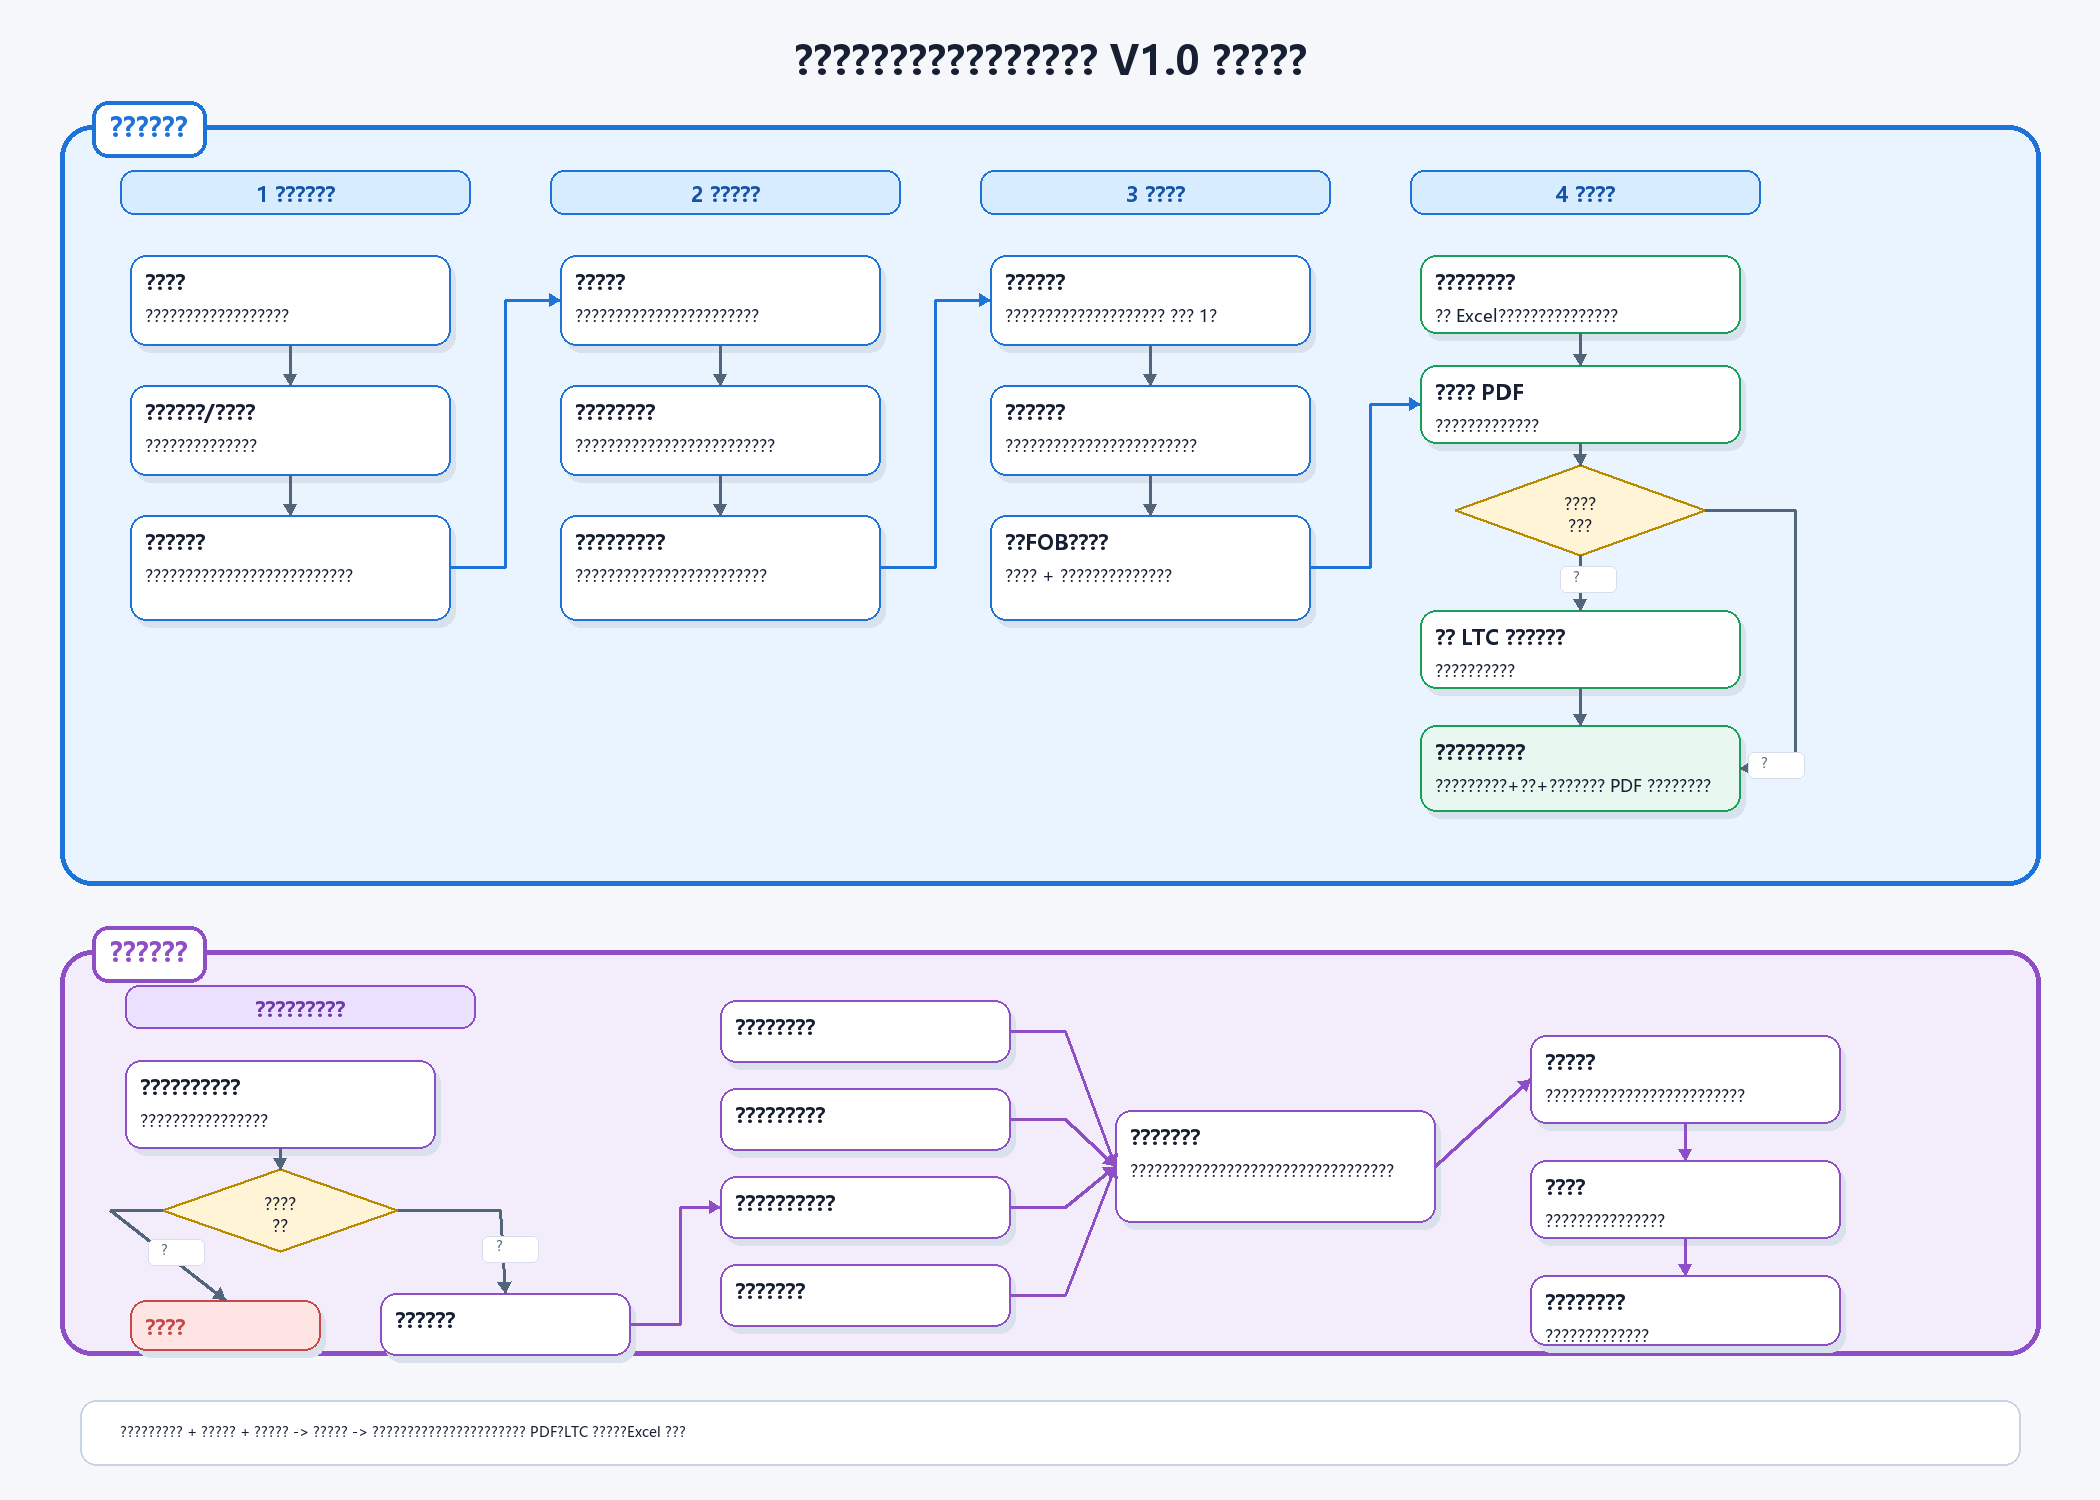
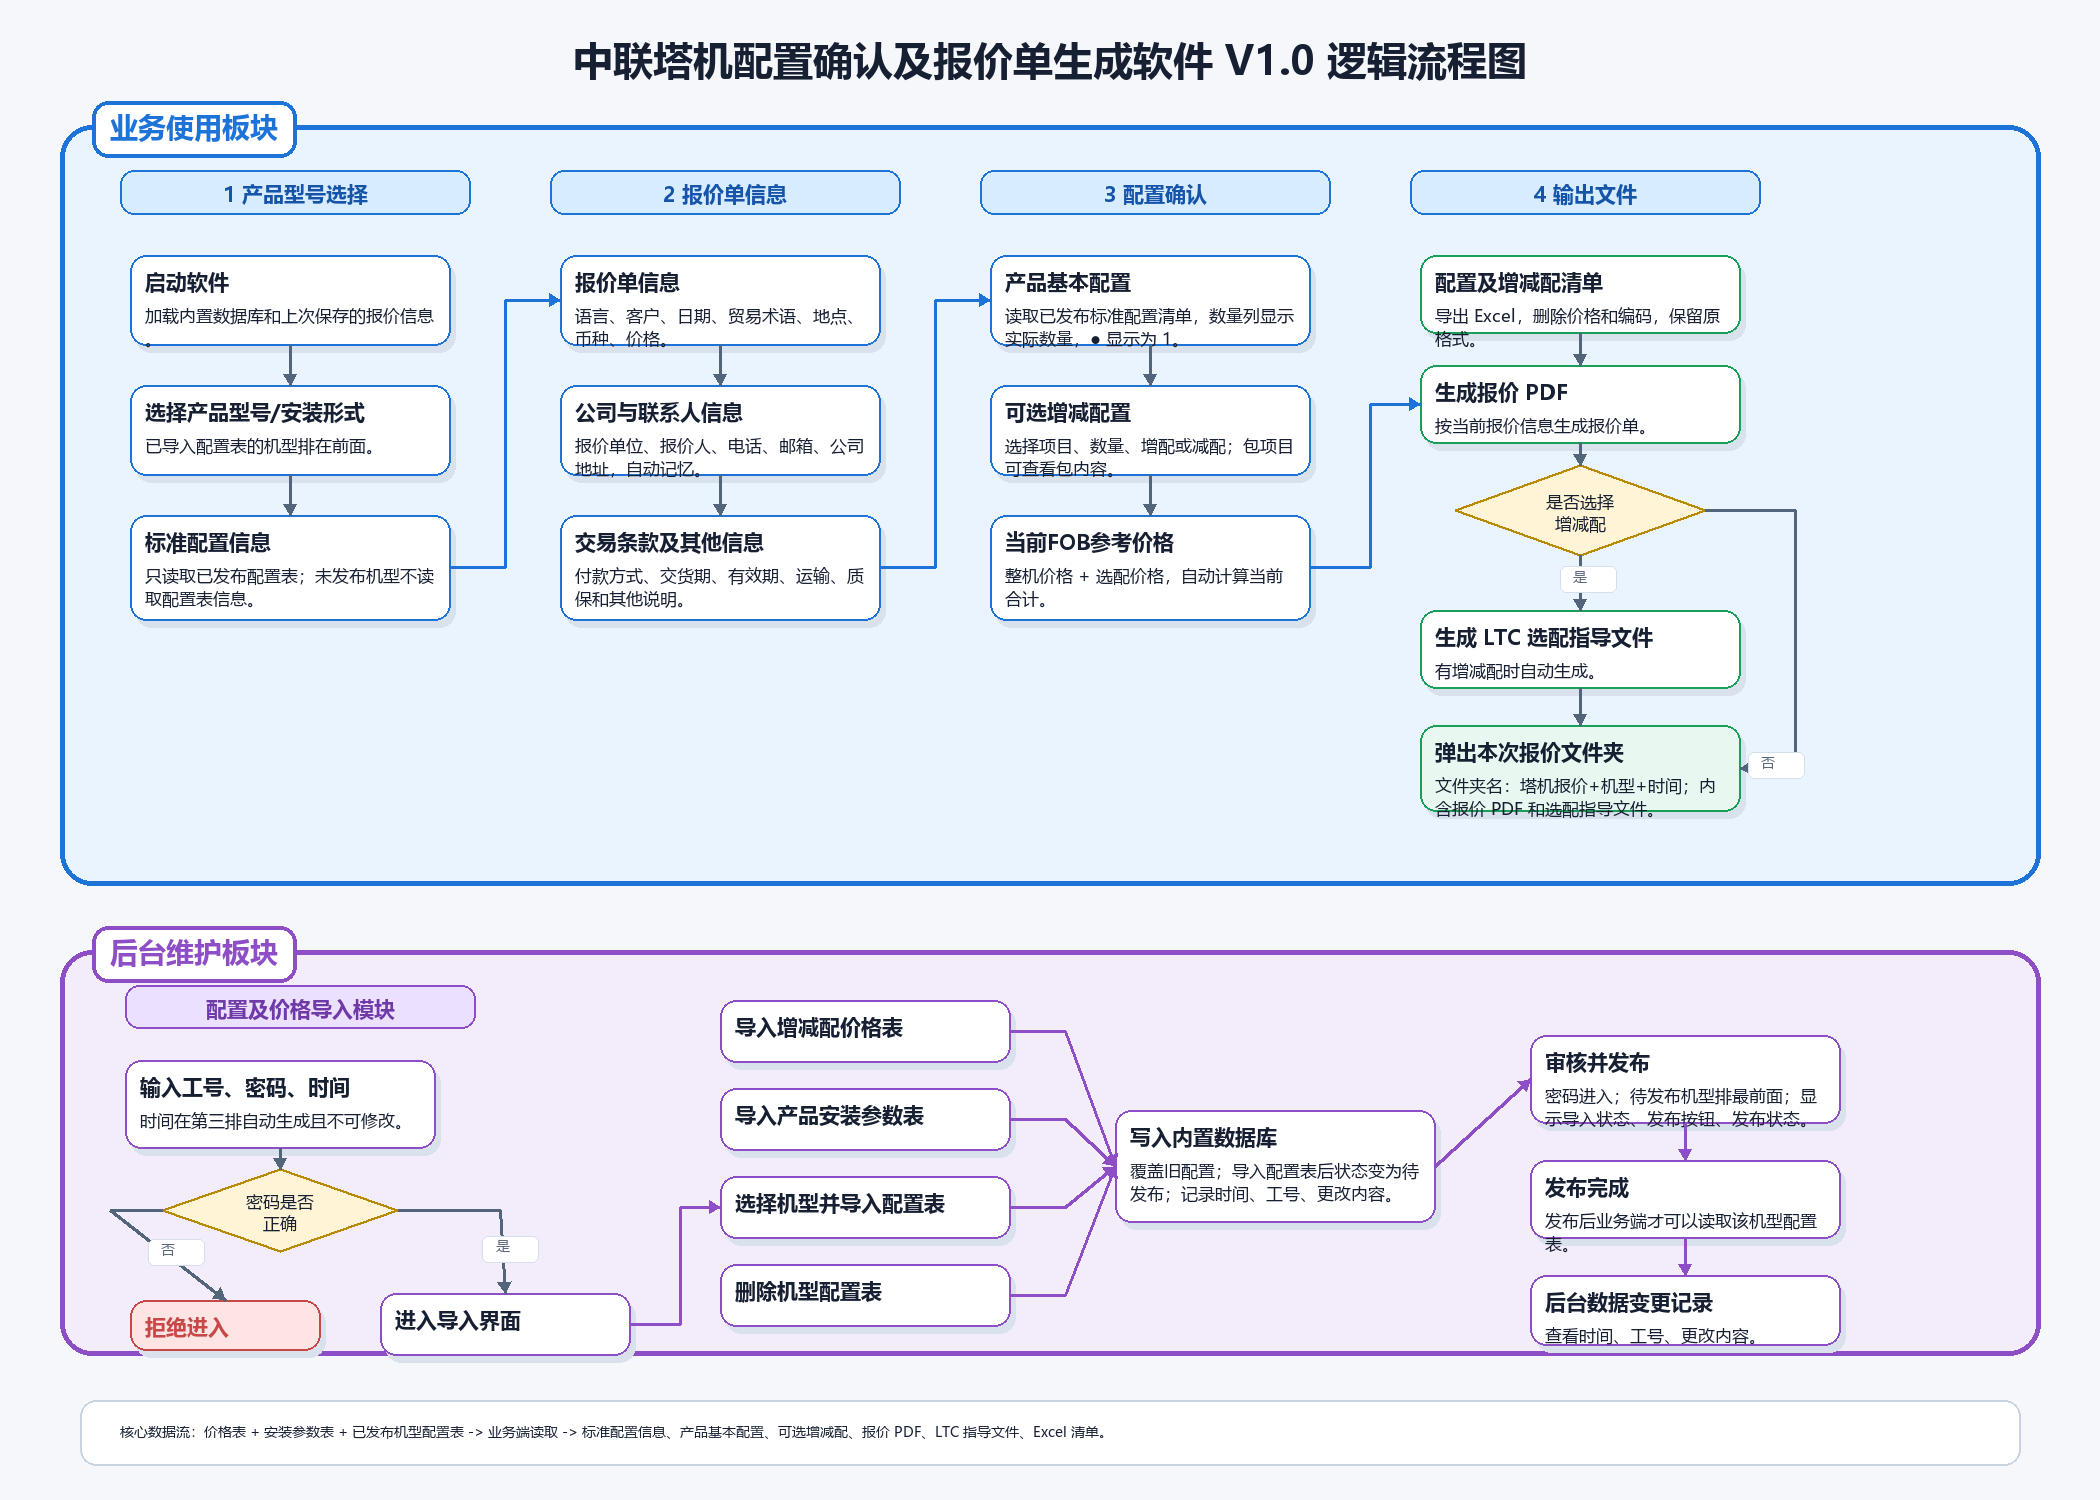
Require published configs for business reads

diff --git a/app.py b/app.py
@@ -828,6 +828,8 @@ def find_header_column(ws, form_row, keywords, start_row=1):
 
 
 def workbook_bytes_for_model(db, model_name):
+    if not is_config_published(db, model_name):
+        return None
     for cfg in [find_export_config(db, model_name), find_component_config(db, model_name), find_initial_export_config(model_name)]:
         workbook_base64 = clean_text(cfg.get("workbook_base64", "")) if cfg else ""
         if workbook_base64:
@@ -859,6 +861,8 @@ def matched_form_column(form_columns, install_form):
 
 
 def config_rows_for_form(db, model_name, install_form, list_type="basic"):
+    if not is_config_published(db, model_name):
+        raise ValueError("当前机型配置表尚未发布，不能读取配置表信息。")
     workbook_bytes = workbook_bytes_for_model(db, model_name)
     if not workbook_bytes:
         db, _cfg = ensure_export_config(db, model_name)
@@ -1795,6 +1799,9 @@ def mm_value(value, suffix="m"):
 
 
 def select_components(db, model_name, install_form):
+    if not is_config_published(db, model_name):
+        return []
+
     def visible(items):
         return [
             item
@@ -2846,7 +2853,7 @@ class QuotationApp:
 
         window = Toplevel(self.root)
         window.title("审核并发布")
-        window.geometry("1160x500")
+        window.geometry("1060x500")
         wrapper = ttk.Frame(window, padding=10)
         wrapper.pack(fill=BOTH, expand=True)
 
@@ -2858,7 +2865,7 @@ class QuotationApp:
             foreground="#555",
         ).pack(anchor="w", pady=(0, 8))
 
-        columns = ("model", "code", "config_status", "publish_status", "source", "forms", "components")
+        columns = ("model", "code", "config_status", "publish_status", "source", "forms")
         tree = ttk.Treeview(wrapper, columns=columns, show="headings", height=14)
         headings = {
             "model": "产品型号",
@@ -2867,16 +2874,14 @@ class QuotationApp:
             "publish_status": "发布状态",
             "source": "导入文件",
             "forms": "匹配安装形式",
-            "components": "可见主要部件",
         }
         widths = {
             "model": 170,
             "code": 100,
             "config_status": 100,
             "publish_status": 100,
-            "source": 220,
-            "forms": 230,
-            "components": 110,
+            "source": 260,
+            "forms": 260,
         }
         for col in columns:
             tree.heading(col, text=headings[col])
@@ -2897,7 +2902,15 @@ class QuotationApp:
             imported_count = 0
             published_count = 0
             pending_count = 0
-            for model_name in sorted(products):
+            def status_sort_key(model_name):
+                cfg = cfg_by_key.get(normalize_key(model_name))
+                if cfg and not is_config_published(self.db, model_name):
+                    return (0, model_name)
+                if cfg:
+                    return (1, model_name)
+                return (2, model_name)
+
+            for model_name in sorted(products, key=status_sort_key):
                 product = products[model_name]
                 cfg = cfg_by_key.get(normalize_key(model_name))
                 forms = self.db.get("forms_by_code", {}).get(product.get("product_code", ""), [])
@@ -2909,14 +2922,6 @@ class QuotationApp:
                         for form in forms
                         if normalize_form(form.get("install_form", "")) in cfg_forms
                     ]
-                    visible_count = sum(
-                        len([
-                            item
-                            for item in cfg_forms.get(normalize_form(form.get("install_form", "")), [])
-                            if not should_skip_component(" ".join([item.get("component_zh", ""), item.get("part_name", ""), item.get("code", "")]))
-                        ])
-                        for form in forms
-                    )
                     config_status = "已导入"
                     publish_status = "已发布" if is_config_published(self.db, model_name) else "待发布"
                     if publish_status == "已发布":
@@ -2925,13 +2930,11 @@ class QuotationApp:
                         pending_count += 1
                     source = cfg.get("source_file", "")
                     forms_text = "、".join(matched_forms) if matched_forms else "无匹配安装形式"
-                    components_text = str(visible_count)
                 else:
                     config_status = "未导入"
                     publish_status = "未发布"
                     source = ""
                     forms_text = ""
-                    components_text = "0"
                 tree.insert(
                     "",
                     "end",
@@ -2942,7 +2945,6 @@ class QuotationApp:
                         publish_status,
                         source,
                         forms_text,
-                        components_text,
                     ),
                 )
             summary_var.set(